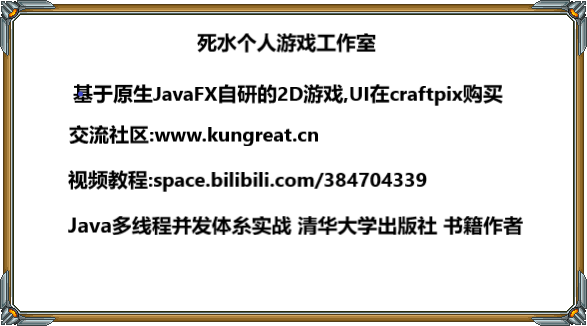
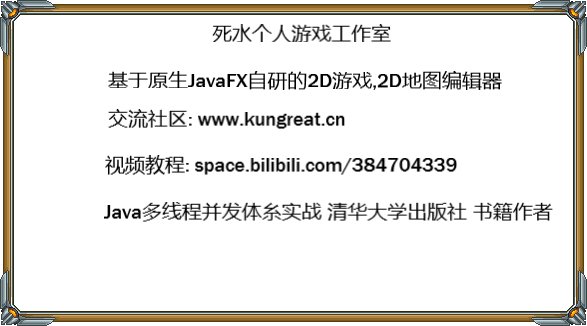
游戏介绍 end 2

Changed region(s): [[0.092, 0.2147, 0.8586, 0.5828], [0.1227, 0.6135, 0.9506, 0.7362], [0.3373, 0.0613, 0.6746, 0.184]]

diff --git a/src/main/java/com/example/javafxdemo/menu/KnightMenu.java b/src/main/java/com/example/javafxdemo/menu/KnightMenu.java
@@ -66,12 +66,12 @@ public class KnightMenu {
         List<String> two = List.of("Introduction", "Language", "Back Volume", "Main Volume", "Keyboard Binding", "Level Introduction", "Restart", "Stop Game");
         ALL_LANGUAGE.put("中文", one);
         ALL_LANGUAGE.put("english", two);
-        Background textBackground = new Background(new BackgroundFill[]{new BackgroundFill(Paint.valueOf("#f3da85"), CornerRadii.EMPTY, Insets.EMPTY)},
+        Background textBackground = new Background(new BackgroundFill[]{new BackgroundFill(Paint.valueOf("#ae8440"), CornerRadii.EMPTY, Insets.EMPTY)},
                 new BackgroundImage[]{new BackgroundImage(new Image(KnightMenu.class.getResourceAsStream("text_border.png")),
                         BackgroundRepeat.NO_REPEAT, BackgroundRepeat.NO_REPEAT, BackgroundPosition.CENTER, BackgroundSize.DEFAULT)});
         PROJECT_INTRODUCTION.getDialogPane().setBackground(textBackground);
-        PROJECT_INTRODUCTION.getDialogPane().setPrefWidth(586);
-        PROJECT_INTRODUCTION.getDialogPane().setPrefHeight(325);
+        PROJECT_INTRODUCTION.getDialogPane().setPrefWidth(582);
+        PROJECT_INTRODUCTION.getDialogPane().setPrefHeight(321);
         PROJECT_INTRODUCTION.getDialogPane().getButtonTypes().add(new ButtonType("Cancel", ButtonBar.ButtonData.CANCEL_CLOSE));
         PROJECT_INTRODUCTION.setResizable(false);
         PROJECT_INTRODUCTION.initStyle(StageStyle.UNDECORATED);
